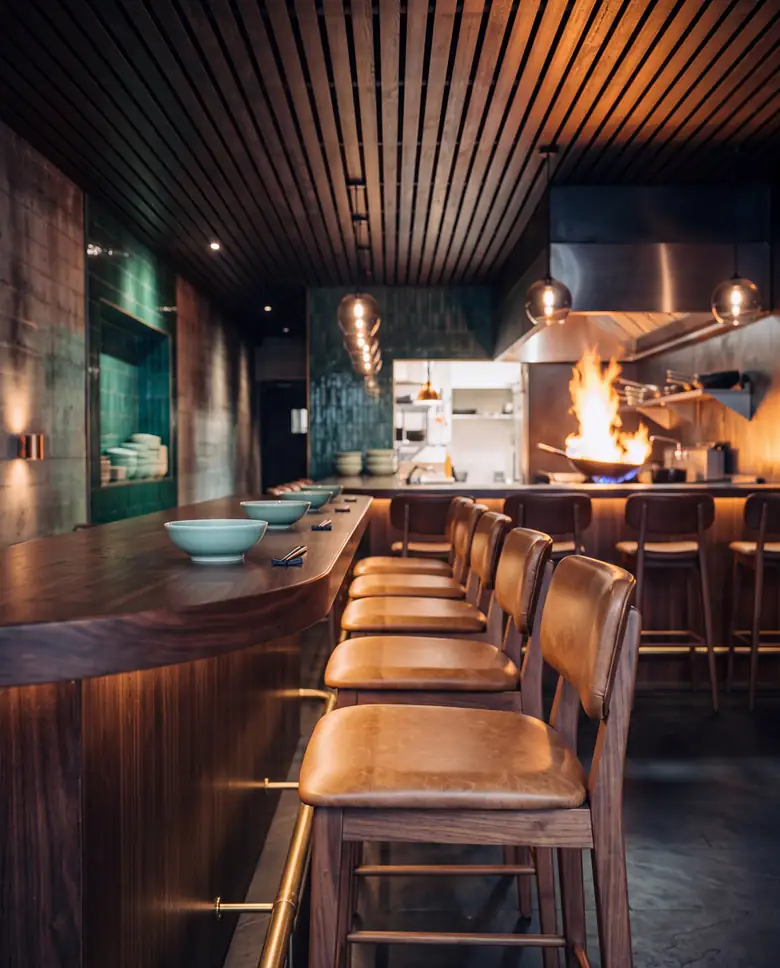
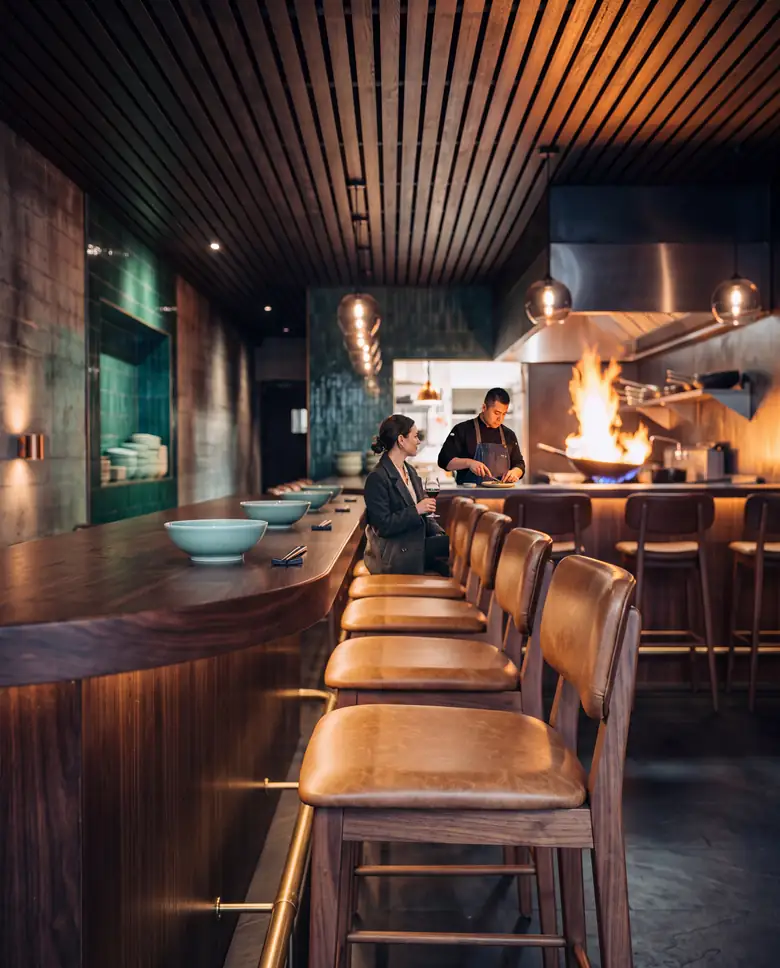
Visit Us: add two AI-generated people to the wok-counter photograph (Shot B)
A woman with a glass of red wine on the far-end stool and the Shot A cook
plating at the pass, rendered with the Gemini API (two calls, second kept,
the cook rendered from a Shot A reference crop) and composited onto the
approved Shot B master. Changes in the 780 px frame are 2.46 % of its pixels,
all inside the paste box; the wok-flame area is identical.

visit-counter-b.webp 52,970 B (limit 68,000 B), same q66 as before. Alt text
233 characters (limit 250); caption now says the people are AI-generated.
PROVENANCE.md, media-rights-inventory.json (new term T-GEMINI-API, not
reviewed) and assets.manifest.json updated. Gate not yet re-run: media check
passes; budgets, assets and the baseline-bound checks are pending, and the
provisional reference is not re-pointed.

Claude-Session: https://claude.ai/code/session_012r3ztsUPVr3ufQ2MGC1PME

Changed region(s): [[0.4615, 0.4029, 0.6769, 0.6198]]

diff --git a/jade-and-ember/visit-us.html b/jade-and-ember/visit-us.html
@@ -54,7 +54,7 @@
   
   <section class="visit-pair visit-counter" aria-labelledby="counter-h">
     <div class="wrap pair-grid">
-      <figure class="pair-fig"><img src="media/visit-counter-b.webp" alt="Looking along the curved walnut counter from a stool: three celadon bowls and chopsticks set out, leather-seated stools in a row, and the wok flaring orange in the open kitchen beyond." width="780" height="968" loading="lazy" decoding="async"><figcaption>The wok counter. Concept image, AI-generated.</figcaption></figure>
+      <figure class="pair-fig"><img src="media/visit-counter-b.webp" alt="Looking along the curved walnut counter from a stool: celadon bowls and chopsticks, leather-seated stools in a row, a woman with a glass of red wine at the far end, and a chef plating a dish at the pass beside the wok’s orange flare." width="780" height="968" loading="lazy" decoding="async"><figcaption>The wok counter. Concept image; the room and the people are AI-generated.</figcaption></figure>
       <div class="pair-body">
         <h2 id="counter-h">Eight seats at the fire.</h2>
         <p>The wok counter is the centre of the room. Sit at the curved walnut and the cook is an arm’s length away: the flame, the toss, the bowl set down in front of you.</p>

diff --git a/jade-and-ember/media/PROVENANCE.md b/jade-and-ember/media/PROVENANCE.md
@@ -14,7 +14,7 @@ Everything here is AI-generated concept media for a fictional restaurant. None o
 | `visit-room-a.webp` | Visit page opening photograph, 1280x859, with five people | Higgsfield (owner's account) Nano Banana 2 at 4K, Shot A Candidate 2 (owner-approved master, 5056x3392), job `f2236920-1890-4a96-a781-3376e93b3612`, 3 credits, 2026-10-17, with five AI-generated people composited on 2026-10-18 and 2026-10-19 (see below). Resized (Lanczos), WebP q46. |
 | `visit-room-a-m.webp` | The phone crop of the same photograph, 720x900 | A 4:5 crop of the Shot A composite (x 1580 to 4294, full height), resized, WebP q55. |
 | `visit-room-a-1920.webp`, `visit-room-a-2560.webp` | Larger sizes of the Visit opening photograph (1920x1288 and 2560x1717), chosen with `srcset` by wide and 2x screens | The same Shot A composite (5056x3392), resized directly (Lanczos), WebP q55 and q49. |
-| `visit-counter-b.webp` | The wok counter from a stool, 780x968 | Nano Banana 2 at 4K, Shot B image 1 (owner-approved), job `ecae65c4-09a8-448b-9abd-e8e1d2ecca76`, 3 credits, Shot A as the image reference. Resized from 3712x4608, WebP q66. |
+| `visit-counter-b.webp` | The wok counter from a stool, 780x968, with two people | Nano Banana 2 at 4K, Shot B image 1 (owner-approved), job `ecae65c4-09a8-448b-9abd-e8e1d2ecca76`, 3 credits, Shot A as the image reference; two AI-generated people composited on 2026-10-19 (see below). Resized from 3712x4608, WebP q66. |
 | `visit-materials-c.webp` | The jade wall and niche, 1200x805 | Nano Banana 2 at 4K, Shot C image 2 (owner-approved; image 4 of the five in the review gallery), job `2b7e3a9d-8eaf-4a34-92d9-a16b102313b4`, 3 credits, Shot A as the image reference. Resized from 5056x3392, WebP q66. |
 | `story-jade-bowls-860.webp` | The celadon bowls at 860x543, for the Home teaser | `story-jade-bowls.webp` resized (Lanczos), WebP q76. |
 | `steam-plate.webp`, `steam-plate-m.webp`, `cloud-plate.webp`, `cloud-plate-m.webp` | Calm-mode stills (reduced motion, Save-Data, no WebGL2) | Rendered from the Breath's own steam solver over the new poster; no third-party code. |
@@ -48,3 +48,14 @@ The Visit opening photograph shows five AI-generated people. Each was made separ
 | Man in his early 50s (salt-and-pepper hair, reading glasses, brown corduroy overshirt, beer) | Far-left side table | The same two Spaces, same method, seed 23 | 0 |
 
 Passes made and not used (3 credits each): `678cbaed`, `91fcf39f`, `16a35d83`, `f53b916f`. Credits spent on Shot A people: 18 (39 of the 45 ceiling spent in all). Not stored: the intermediate crops, placeholder drawings, raw candidates and masks (kept in the Higgsfield sandbox and the working folder, not in the repository).
+
+## Shot B people (2026-10-19)
+
+The wok-counter photograph shows two AI-generated people. They were rendered by the Google Gemini API (`gemini-3.1-flash-image`, Nano Banana 2) on a 1000x1250 crop of the approved Shot B master (job `ecae65c4`, 3712x4608) with two flat grey placeholder figures at the positions the owner approved, cut out of the render by its difference from the master crop, colour-fitted and composited back with a dilated mask. The room itself was never regenerated. Verified on the composite: 0 pixels differ from the master crop outside the dilated people masks (the master crop used for the check is a JPEG q95 copy of the lossless master, not the lossless file), the changes in the delivered 780 px frame are 2.46 % of its pixels and all lie inside the paste box, and the wok-flame area is identical.
+
+| Person | Where | Made with | Credits |
+| --- | --- | --- | --- |
+| Woman in her early 40s (dark hair in a loose low bun, charcoal wool coat over a cream shirt, silver hoop earrings, a glass of red wine), seated side-on, looking toward the kitchen | A stool at the far end of the counter | Gemini API `gemini-3.1-flash-image`, 4K, 4:5, from the crop and the placeholders | 0 Higgsfield credits; Gemini cost unverified |
+| The Shot A cook (young man, short dark hair, black jacket, denim apron with brown straps), head bowed, plating a dish | The kitchen pass window, left of the flame | The same call, with a crop of the approved Shot A cook (from the Shot A final) as a second reference image so the same person appears | as above |
+
+Two calls were made, each returning one image of about 2,520 output tokens: the first (text description only) gave a different-looking chef and was rejected by the owner; the second (with the reference image) was kept. Neither call was retried automatically. The cost is unverified because the billing tier is not known. Known limits: the guest is somewhat larger in the render than her placeholder; the whole crop was re-rendered, so only the people are used and the colour of the room outside them is the master's; the masks come from the render's difference from the master, not from a segmentation model, and were checked by eye at preview size only; the chef is not byte-for-byte the Shot A cook; nothing here was checked on a real device. Not stored: the raw 3712x4608 renders, the placeholder drawings, the masks and the reference crop (kept in the session scratchpad and the Higgsfield sandbox, not in the repository).
